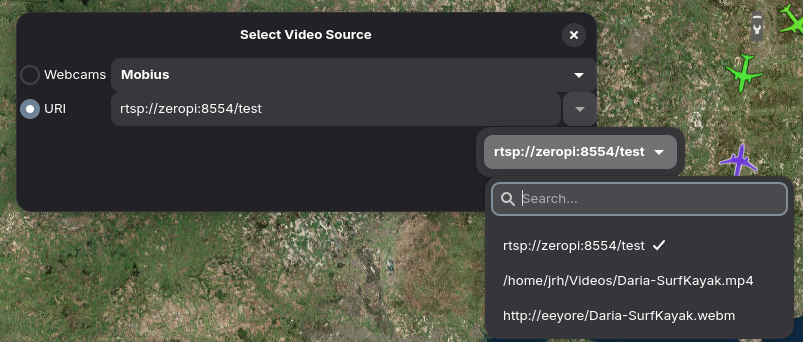
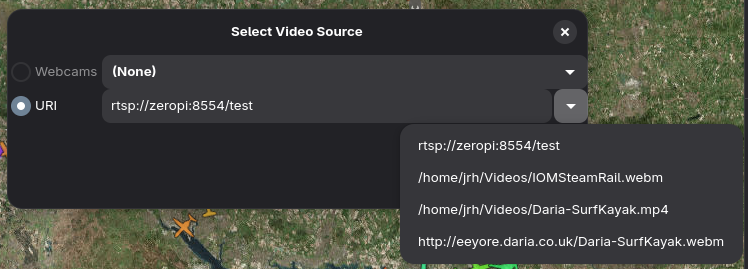
tidy up recent videos & UG

diff --git a/docs/manual/docs/mwp_video_player.md b/docs/manual/docs/mwp_video_player.md
@@ -46,7 +46,7 @@ The selected source will then play in a separate window. This window will remain
 
 In stream mode, there are minimal video controls; a play/pause button and volume control. Note the volume is that of the video, the overall volume is controlled by the system volume control.
 
-Up to 10 recent URIs are persisted. In order to access this list it is necessary to click the "down arrow head" icon at the end of URI text entry box and then expand the drop-down.
+Up to 10 recent URIs are persisted. In order to access this list it is necessary to click the "expander" icon at the end of URI text entry box. The recent files list is stored in a text file `~/.config/mwp/recent-video.txt`. This file may be maintained with a text editor if required.
 
 ## Blackbox replay mode (BBL replay)
 
